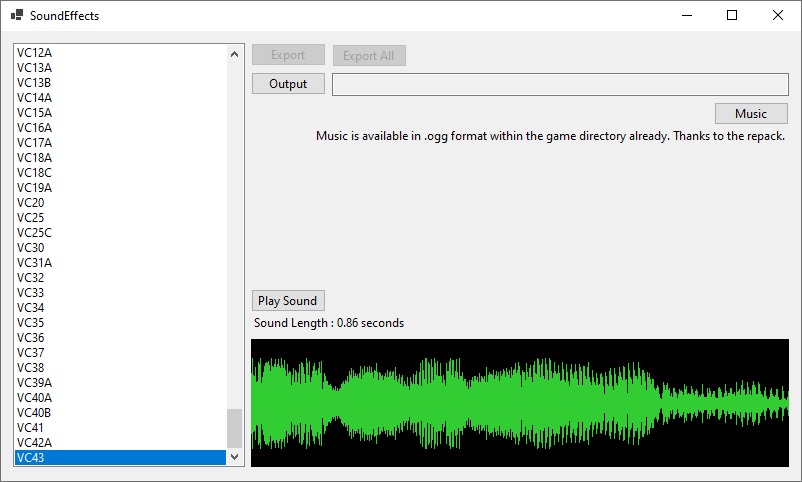
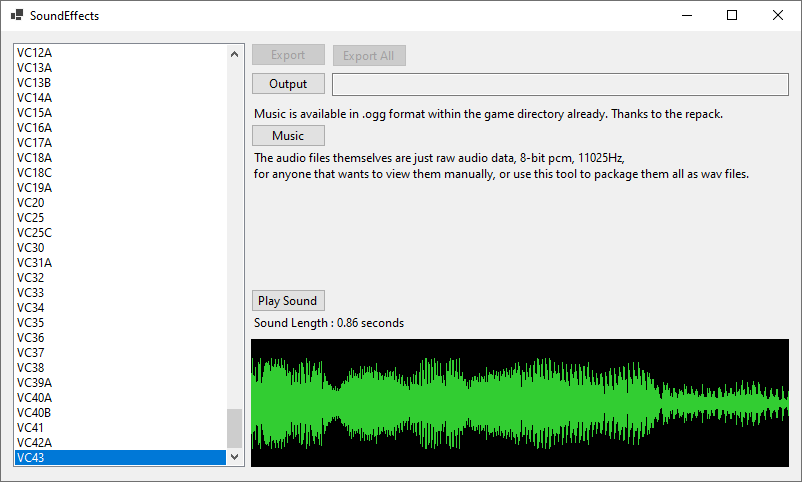
label notes and value clamped

Changed region(s): [[0.3117, 0.2178, 0.9663, 0.3734]]

diff --git a/ALTViewer/SoundEffects.Designer.cs b/ALTViewer/SoundEffects.Designer.cs
@@ -38,6 +38,8 @@
             button4 = new Button();
             label2 = new Label();
             button5 = new Button();
+            label3 = new Label();
+            label4 = new Label();
             ((System.ComponentModel.ISupportInitialize)pictureBox1).BeginInit();
             SuspendLayout();
             // 
@@ -122,7 +124,7 @@
             // label2
             // 
             label2.AutoSize = true;
-            label2.Location = new Point(312, 97);
+            label2.Location = new Point(250, 75);
             label2.Name = "label2";
             label2.Size = new Size(476, 15);
             label2.TabIndex = 8;
@@ -130,7 +132,7 @@
             // 
             // button5
             // 
-            button5.Location = new Point(713, 71);
+            button5.Location = new Point(250, 93);
             button5.Name = "button5";
             button5.Size = new Size(75, 23);
             button5.TabIndex = 9;
@@ -138,11 +140,31 @@
             button5.UseVisualStyleBackColor = true;
             button5.Click += button5_Click;
             // 
+            // label3
+            // 
+            label3.AutoSize = true;
+            label3.Location = new Point(250, 119);
+            label3.Name = "label3";
+            label3.Size = new Size(378, 15);
+            label3.TabIndex = 10;
+            label3.Text = "The audio files themselves are just raw audio data, 8-bit pcm, 11025Hz,";
+            // 
+            // label4
+            // 
+            label4.AutoSize = true;
+            label4.Location = new Point(250, 135);
+            label4.Name = "label4";
+            label4.Size = new Size(502, 15);
+            label4.TabIndex = 11;
+            label4.Text = "for anyone that wants to view them manually, or use this tool to package them all as wav files.";
+            // 
             // SoundEffects
             // 
             AutoScaleDimensions = new SizeF(7F, 15F);
             AutoScaleMode = AutoScaleMode.Font;
             ClientSize = new Size(800, 450);
+            Controls.Add(label4);
+            Controls.Add(label3);
             Controls.Add(button5);
             Controls.Add(label2);
             Controls.Add(button4);
@@ -172,5 +194,7 @@
         private Button button4;
         private Label label2;
         private Button button5;
+        private Label label3;
+        private Label label4;
     }
 }

diff --git a/ALTViewer/SoundEffects.cs b/ALTViewer/SoundEffects.cs
@@ -93,7 +93,7 @@ namespace ALTViewer
                     int val = Math.Abs((int)samples[start + i]);
                     if (val > max) max = val;
                 }
-                float normalized = max / (float)short.MaxValue;
+                float normalized = max / (float)short.MaxValue; // correct scaling
                 int y = (int)(normalized * height / 2);
                 g.DrawLine(Pens.LimeGreen, x, height / 2 - y, x, height / 2 + y);
             }
@@ -111,7 +111,7 @@ namespace ALTViewer
             {
                 byte b = br.ReadByte();
                 // Convert unsigned 8-bit (0-255) to signed short (-32768 to 32767) scale
-                samples[i] = (short)((b - 128) * 256);
+                samples[i] = (short)Math.Clamp((b - 128) * 256, short.MinValue, short.MaxValue);
             }
             double duration = sampleCount / (double)sampleRate;
             if (duration > 60)
